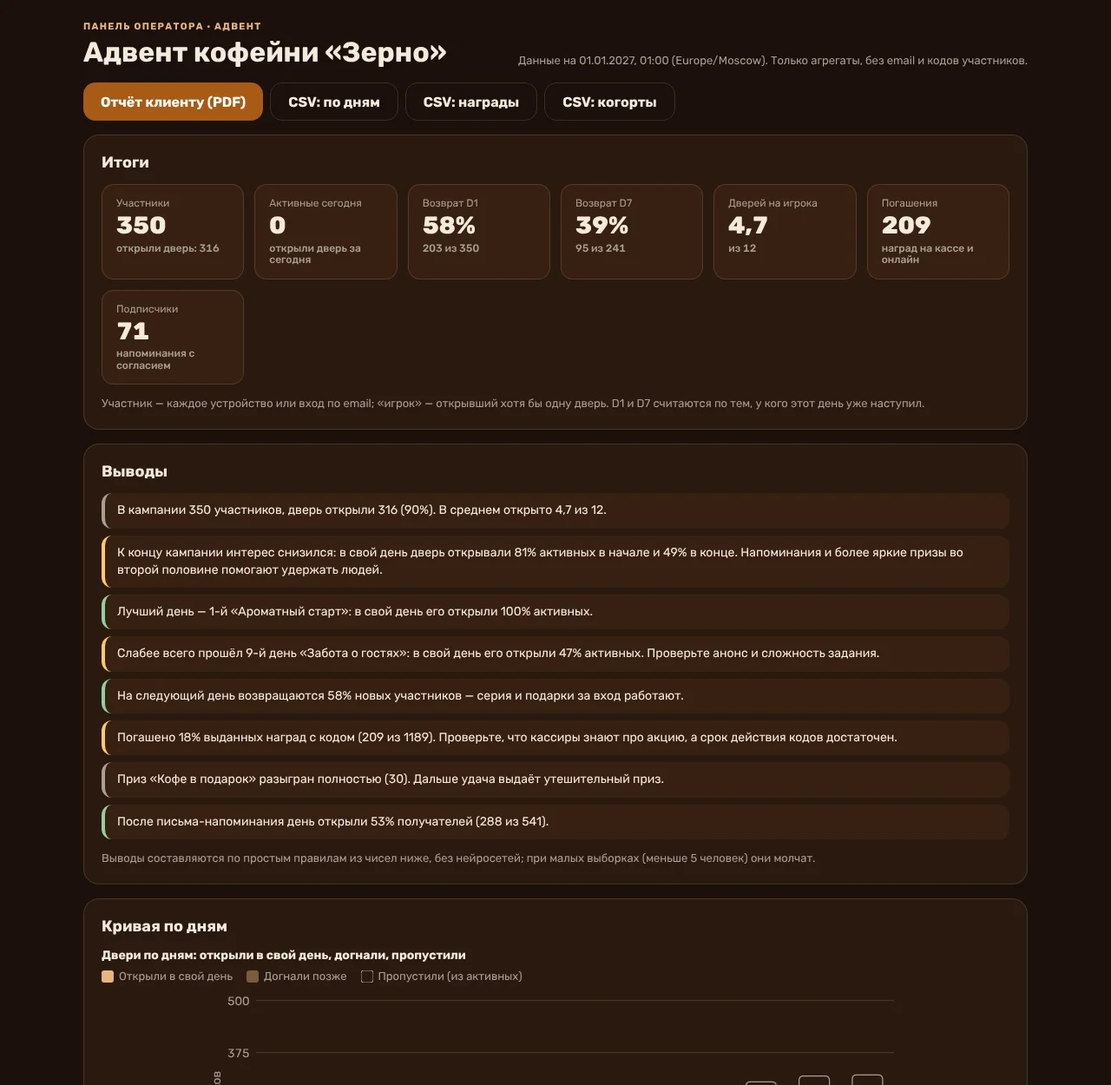
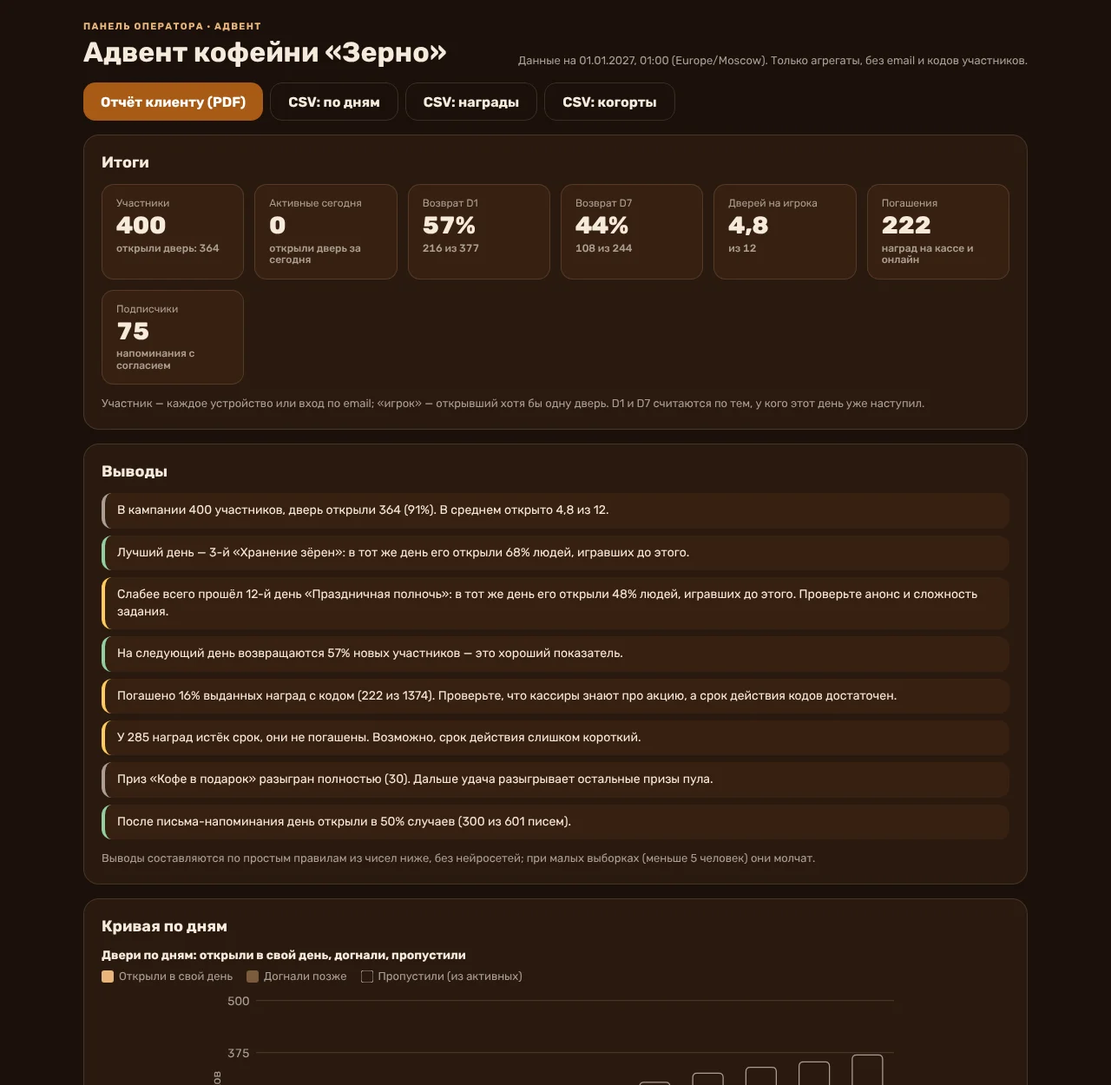
A7: документация и скриншоты по решениям владельца (порог 5, кэш, onTimePatterns)

diff --git a/docs/engine/ADVENT_PLAN.md b/docs/engine/ADVENT_PLAN.md
@@ -544,7 +544,7 @@ model ReminderDelivery { participantId, day, sentAt, clickedAt?              @@u
 - **SQL-агрегаты** (`analyticsRaw`, `teamStats` в `PrismaAdventRepository`; та же логика в `InMemoryAdventRepository`; контракт `tests/support/advent-analytics-contract.ts` с ручными ожиданиями гоняется на памяти и на PostgreSQL). Наружу выходят только числа и небольшие группы: ни email, ни идентификаторов участников. Сборка и расчёт долей — `loadAdventAnalytics` (`src/server/advent-metrics.ts`), чистые правила — `src/domain/advent/analytics.ts` и `insights.ts`.
 - **Панель `/admin` адвента** (`AdventAdmin`): плитки (участники, активные сегодня, D1, D7, дверей на игрока, погашения, подписчики), выводы, кривая по дням (стек: в свой день / догнали / пропустили), двери на участника, лучшая серия, воронка регистрации, цели серии, когорты, воронка наград по типам и способам получения, команды, награды и остатки, напоминания. Графики — инлайн-SVG (`advent-charts.tsx`, сервер, без библиотек): подписи осей, `role="img"` с описанием, подсказка у каждого столбца, таблица под каждым графиком, серии различаются светлотой одного оттенка и штриховкой (не цветом одним), цвета — токены бренда. Только роль `operator`: кассир панель и API не видит (тесты). `?asOf=` на страницах оператора работает для демо-пакетов и вне production (как на сайте).
 - **Отчёт клиенту `/admin/report`**: светлая «бумага» в бренде клиента (логотип или отметка, акцент; затемняется до контраста 4,5:1, `reportPaperTheme`), `@media print` для A4 (поля 14 мм, без панели управления, блоки не рвутся), кнопка «Сохранить в PDF» (печать браузера). Содержание: ключевые цифры, выводы, кривая по дням с таблицей, лучшие и слабые дни, воронки (регистрация, награды, напоминания), двери и серии, возврат, команды, сноска «Как мы считаем». CSV: `GET /api/admin/advent/report/{days,rewards,cohorts}.csv` (BOM, CRLF, защита от формул, в том числе после пробелов; числа без апострофа). `GET /api/admin/advent/metrics` теперь отдаёт и `analytics`.
-- **Рейтинг команд** (`audience.leaderboard = "teams"`, раньше выбора команды не было: `teamId` всегда пуст). `POST /api/advent/team` — выбор или снятие (только команда из списка пакета, до финала), `state.team` (список, выбранная, можно ли менять), `GET /api/advent/leaderboard` — публичный агрегат, кэш в процессе на 3 минуты. Клиент: `TeamBoard` — радиогруппа выбора и нумерованный рейтинг в листе серии (и в календаре в фазе игры) и в финале; стили `advent.css`, нет анимаций (reduced-motion), клавиатура — штатные радиокнопки. При слиянии участников команда поглощённого не пропадает, если у итогового её нет.
+- **Рейтинг команд** (`audience.leaderboard = "teams"`, раньше выбора команды не было: `teamId` всегда пуст). `POST /api/advent/team` — выбор или снятие (только команда из списка пакета, до финала), `state.team` (список, выбранная, можно ли менять), `GET /api/advent/leaderboard` — публичный агрегат без точных цифр (`rankPublicTeams`: размер команды интервалом «5–9», «10–24», «25+», среднее дверей округлено до 0,5, доля играющих — до 10 п. п.), кэш в процессе на 3 минуты. Клиент: `TeamBoard` — радиогруппа выбора и нумерованный рейтинг в листе серии (и в календаре в фазе игры) и в финале; стили `advent.css`, нет анимаций (reduced-motion), клавиатура — штатные радиокнопки. При слиянии участников команда поглощённого не пропадает, если у итогового её нет.
 - **Демо-данные** `npm run advent:seed-demo -- <slug>` (`src/tools/advent-seed-demo.ts`, `scripts/advent-seed-demo.ts`): синтетические участники проходят кампанию через настоящие `AdventService`/`RewardService` (серии, награды, коды, остатки считаются теми же правилами), часть входит по email (адреса `demo-<зерно>-<n>@seed.example.test`), часть подписана на напоминания (история доставок записывается напрямую), команды разного размера (одна совсем маленькая), погашения. Детерминированно по `--seed`; спад вероятности открыть дверь к последнему дню — от 10 до 40% (зависит от зерна). Только `demo: true` и только вне боевого режима (`isPreviewEnvironment`); `--wipe` стирает участников демо-кампании, `--append` добавляет к существующим.
 - **Скриншоты:** `npm run advent:a7-shots -- <slug>`, результат в `docs/screens/advent-a7/`. Скилл `build-quiz`: «8а. Метрики и отчёт клиенту» (как выдать PDF, CSV, показ на продажах) и абзац о командах.
 
@@ -552,7 +552,7 @@ model ReminderDelivery { participantId, day, sentAt, clickedAt?              @@u
 
 - **Сутки** делятся по часовому поясу кампании (`schedule.timezone`), а не UTC: открытие в 00:00 МСК — уже следующая дата (тест на границе 23:59:59/00:00 МСК).
 - **Участник** — устройство или аккаунт, зашедший в кампанию (запись `Participant`; вход по email сливает устройства); **игрок** — открывший хотя бы одну дверь. Дверей на участника считаются среди игроков, «не открыли ни одной» показано отдельно.
-- **В свой день / догнали:** `DayOpen.onTime`. **Активные** на конец окна дня n — игроки, чья первая открытая дверь раньше открытия дня n+1 (у последнего дня — финала); **пропустили** = активные − среди них открывшие день n когда угодно. Текущий день предварительный (подпись), будущие окна без цифр. **Лучшие и слабые дни и тренд** сравниваются по доле «игравших раньше» (первая дверь открыта до начала дня), открывших день вовремя: новички дня почти всегда открывают текущую дверь, поэтому доля среди активных у дня 1 всегда 100%, а ранние дни завышены.
+- **В свой день / догнали:** `DayOpen.onTime`. **Активные** на конец окна дня n — игроки, чья первая открытая дверь раньше открытия дня n+1 (у последнего дня — финала); **пропустили** = активные − среди них открывшие день n когда угодно. Текущий день предварительный (подпись), будущие окна без цифр. **Лучшие и слабые дни и тренд** (решение владельца по ревью — оставить) сравниваются по доле «игравших раньше» (первая дверь открыта до начала дня), открывших день вовремя: новички дня почти всегда открывают текущую дверь, поэтому доля среди активных у дня 1 всегда 100%, а ранние дни завышены.
 - **Закрыли день целиком** — есть результаты всех блоков дня (`DayBlockResult`); анониму награда-блок не засчитывается (нужен вход по email), поэтому для пакетов с блоками награды доля занижена у анонимов.
 - **Возврат D1/D3/D7:** когорта — участники по локальной дате первого визита (`createdAt`); вернулся — открыл любую дверь через ровно N суток. В основание входят только созревшие когорты (дата + N не позже сегодня), несозревшие не считаются «не вернувшимися»; когорта, у которой дата + N выпадает на день, когда двери не открываются (до даты первого дня или после финала), тоже не входит в основание и показывается прочерком. Когорты меньше 5 человек скрыты.
 - **Лучшая серия** считается теми же правилами, что серия участника (`streakState`: заморозки, пропуски), по рисункам открытых вовремя дней (SQL группирует игроков по массиву дней, затем TS).
@@ -560,12 +560,13 @@ model ReminderDelivery { participantId, day, sentAt, clickedAt?              @@u
 - **Награды:** выдано (`RewardGrant`), погашено, истекли (выдана, не погашена, `expiresAt ≤ сейчас`). Доля погашения — только по наградам, которые можно погасить (`redeem ≠ none`); баллы и участие в финале не гасятся.
 - **Воронка регистрации:** все → открыли дверь → подтвердили email → согласие на рассылку → напоминания включены. После `cleanup:pii` числа по email и согласиям обнуляются.
 - **Напоминания:** отправлено → переход → открыли день после письма (из A5), подписаны и отписались.
-- **Команды:** участники команды = выбравшие её; рейтинг — среднее число открытых дверей на участника (не сумма: большая команда не получает преимущества), при равенстве — доля играющих (открывших хотя бы одну дверь); равные делят место. В панели, отчёте и CSV команда меньше 5 человек — без цифр; в публичном рейтинге порог 3. Очки — сумма баллов блоков заданий.
+- **Команды:** участники команды = выбравшие её; рейтинг — среднее число открытых дверей на участника (не сумма: большая команда не получает преимущества), при равенстве — доля играющих (открывших хотя бы одну дверь); равные делят место. Порог малых групп один везде (`MIN_GROUP = 5`): в панели, отчёте, CSV и в публичном рейтинге команда меньше 5 человек — без цифр и без места («Мало участников для рейтинга»). Публичный ответ не содержит точного числа участников (только интервал) и точного среднего: среднее округлено до 0,5, доля играющих — до 10 п. п.; порядок и места считаются по округлённым значениям, при равенстве — по названию, и равные делят место, поэтому по порядку точные цифры не восстановить. В панели и CSV оператора цифры точные. Очки — сумма баллов блоков заданий.
 - **Выводы** — простые правила с порогами `INSIGHT_THRESHOLDS` (возврат D1 < 20% / ≥ 40%, падение доли открывших в свой день на 15 п. п., email < 10% игроков, погашение < 30% / ≥ 60%, истёкшие ≥ 20%, остатки и коды закончились, доля догнавших ≥ 25%, письма < 10%, лидер команд); при меньше 5 игроков молчат.
 
 ### Отступления и решения
 
-- **Агрегаты — не одна «широкая» таблица, а несколько небольших SQL-запросов + два места, где итог досчитывает TS** (лучшая серия по рисункам дней, возврат по созревшим когортам): серия зависит от заморозок и правил `streakState`, дублировать их в SQL значило бы получить два источника правды. Выход запросов ограничен числом дней, рисунков и когорт, а не числом участников.
+- **Агрегаты — не одна «широкая» таблица, а несколько небольших SQL-запросов + два места, где итог досчитывает TS** (лучшая серия по рисункам дней, возврат по созревшим когортам): серия зависит от заморозок и правил `streakState`, дублировать их в SQL значило бы получить два источника правды. Выход запросов по дням и когортам ограничен числом дней и дат; рисунков открытых вовремя дней (`onTimePatterns`) на практике сравнимо с числом участников (на случайных данных 100 тыс. участников — ~98 тыс. строк), но время запроса пока приемлемое, а повторные пересчёты срезает кэш метрик.
+- **Кэш метрик панели — 60 с на арендатора** (`loadTenantAnalytics`, `ANALYTICS_TTL_MS`): `/admin`, `/admin/report`, `GET /api/admin/advent/metrics` и CSV берут один снимок (`analyticsRaw`, `teamStats`, обзор наград), а не пересчитывают по ~3 с на 100 тыс. участников каждый. Общий помощник `cachedPerTenant` (им же кэшируется публичный рейтинг): в кэше обещание — одновременные запросы ждут один пересчёт; ошибка не кэшируется; запись годна, пока ей меньше срока и по часам кампании (`?asOf=`), и по настоящим часам. Метрики считаются на момент пересчёта, в панели и отчёте это «данные на …». Остатки и коды в таблице наград панели — без кэша (после загрузки кодов оператор видит их сразу).
 - **Метрики лежат в `advent-metrics.ts`, а не в `metrics.ts`:** `metrics.ts` — квиз; адвентовая часть уже жила в `advent-metrics.ts` (A5).
 - **Выбора команды в базе не было** (`teamId` всегда `null`), поэтому он добавлен здесь: API, поле в состоянии и `TeamBoard`. Менять команду можно до финала: человека, ошибшегося в выборе, нельзя оставлять без выхода; накрутка перебежками минимальна, потому что считается среднее, а не сумма.
 - **Рейтинг считает «играющих» как открывших хотя бы одну дверь за кампанию**, а не «за последние дни»: окно «последних дней» делало бы рейтинг нестабильным после финала.
@@ -578,7 +579,7 @@ model ReminderDelivery { participantId, day, sentAt, clickedAt?              @@u
 ### Открытые вопросы
 
 - Нужны ли клиенту ещё срезы в CSV (например, по часам суток, по каналам входа)? Сейчас три файла: дни, награды, когорты.
-- Порог малых групп 5 (клиентские срезы) и 3 (публичный рейтинг) — решение по тексту задачи; юристу заказчика стоит подтвердить, что публичный рейтинг команд из трёх человек не раскрывает персональных данных сотрудников.
+- Порог малых групп — 5 везде, включая публичный рейтинг (решение владельца по ревью); публичные цифры округлены. Юристу заказчика всё равно стоит подтвердить, что рейтинг команд от пяти человек его устраивает.
 - Нужен ли серверный PDF (для письма клиенту «по расписанию»)? Пока PDF — печать браузера.
 
 ### Скриншоты

diff --git a/.claude/skills/build-quiz/SKILL.md b/.claude/skills/build-quiz/SKILL.md
@@ -123,7 +123,7 @@ npm run quiz:shots -- <slug>
 Раздел 12 `docs/brief-template.md` — строки «Ключ: значение» для автопереноса и текстовые вопросы. Пустое соберите в один список вопросов клиенту. Обязательно: тип бизнеса, число дней и первый день, что и когда выдаётся (подарок на день, промокод, удача, главный приз), как погашается код, юрлицо, ожидаемое число участников, нужна ли покупка.
 
 ### 2. Профиль
-**Команды (corporate):** `audience.leaderboard: "teams"` и список `audience.teams` (id и название) включают командный зачёт: участник сам выбирает команду в листе серии (меняет до финала), а в листе и в финале виден публичный рейтинг — среднее число открытых дверей на участника и доля играющих, без имён людей; команда меньше трёх участников показывается без цифр. Состав команд пакет не хранит: людей в команды не распределяют, выбирают они сами.
+**Команды (corporate):** `audience.leaderboard: "teams"` и список `audience.teams` (id и название) включают командный зачёт: участник сам выбирает команду в листе серии (меняет до финала), а в листе и в финале виден публичный рейтинг — среднее число открытых дверей на участника и доля играющих, без имён людей и с округлёнными цифрами (размер команды — интервалом); команда меньше пяти участников показывается без цифр и без места. Состав команд пакет не хранит: людей в команды не распределяют, выбирают они сами.
 
 Выберите по типу бизнеса: `retail` (промокод на сайт), `horeca` (подарок на кассе по QR), `beauty` (апгрейд услуги, оба способа), `b2b` (материалы и вебинары, без кодов), `corporate` (баллы и мерч, рейтинг команд для сотрудников) или `custom` (нейтральный набор без кодов). Профиль задаёт догоняние, награды, цели серии (в долях дней), удачу, время и тексты напоминаний (но не включает их: `reminders.channel` остаётся `off`) и аудиторию; тон текстов — в `toneHints` и `dayTemplates` профиля (`profiles/<id>.json`).
 
@@ -183,7 +183,7 @@ npm run quiz:shots -- <slug> --day 1..12
 Пакет должен принимать `?asOf=` (`demo: true` или вне production). Скрипт снимает каждый день (календарь, глава, блоки, итог) на телефоне и собирает `index.html` — один файл для согласования с клиентом; `--desktop` добавляет десктоп. Без `--day` снимаются основные экраны (`npm run advent:shots`). Проверьте: тексты не обрезаны, контраст читаем, у наград есть код и QR.
 
 ### 8а. Метрики и отчёт клиенту
-Во время кампании оператор клиента смотрит `/admin` (логин — `npm run quiz:admin -- <slug> --user ops`; кассир панель не видит): плитки (участники, активные сегодня, возврат D1/D7, погашения, подписчики), кривая по дням, двери на участника, лучшая серия, воронки регистрации и наград, когорты, команды (corporate), напоминания, выводы по простым правилам. Группы меньше 5 человек (когорты, команды) скрыты.
+Во время кампании оператор клиента смотрит `/admin` (логин — `npm run quiz:admin -- <slug> --user ops`; кассир панель не видит): плитки (участники, активные сегодня, возврат D1/D7, погашения, подписчики), кривая по дням, двери на участника, лучшая серия, воронки регистрации и наград, когорты, команды (corporate), напоминания, выводы по простым правилам. Группы меньше 5 человек (когорты, команды) скрыты. Цифры обновляются раз в минуту (кэш), время среза — «данные на …» в шапке.
 
 **Как выдать отчёт клиенту:** откройте `/admin/report` (или кнопку «Отчёт клиенту (PDF)» на `/admin`), в браузере нажмите «Сохранить в PDF» (печать A4, поля 14 мм, фон включить) и отправьте файл. Отчёт — в бренде клиента (логотип или отметка, акцент), с ключевыми цифрами, кривой по дням, лучшими и слабыми днями, воронками, возвратом, выводами и сноской «Как мы считаем»; в нём только агрегаты, без email и кодов. Таблицы для Excel — CSV: `/api/admin/advent/report/days.csv`, `rewards.csv`, `cohorts.csv` (кнопки на `/admin`). Итоговый отчёт снимайте после финала и закрытия выдачи (`claimEndsAt`): до этого текущий день и погашения предварительные.
 
